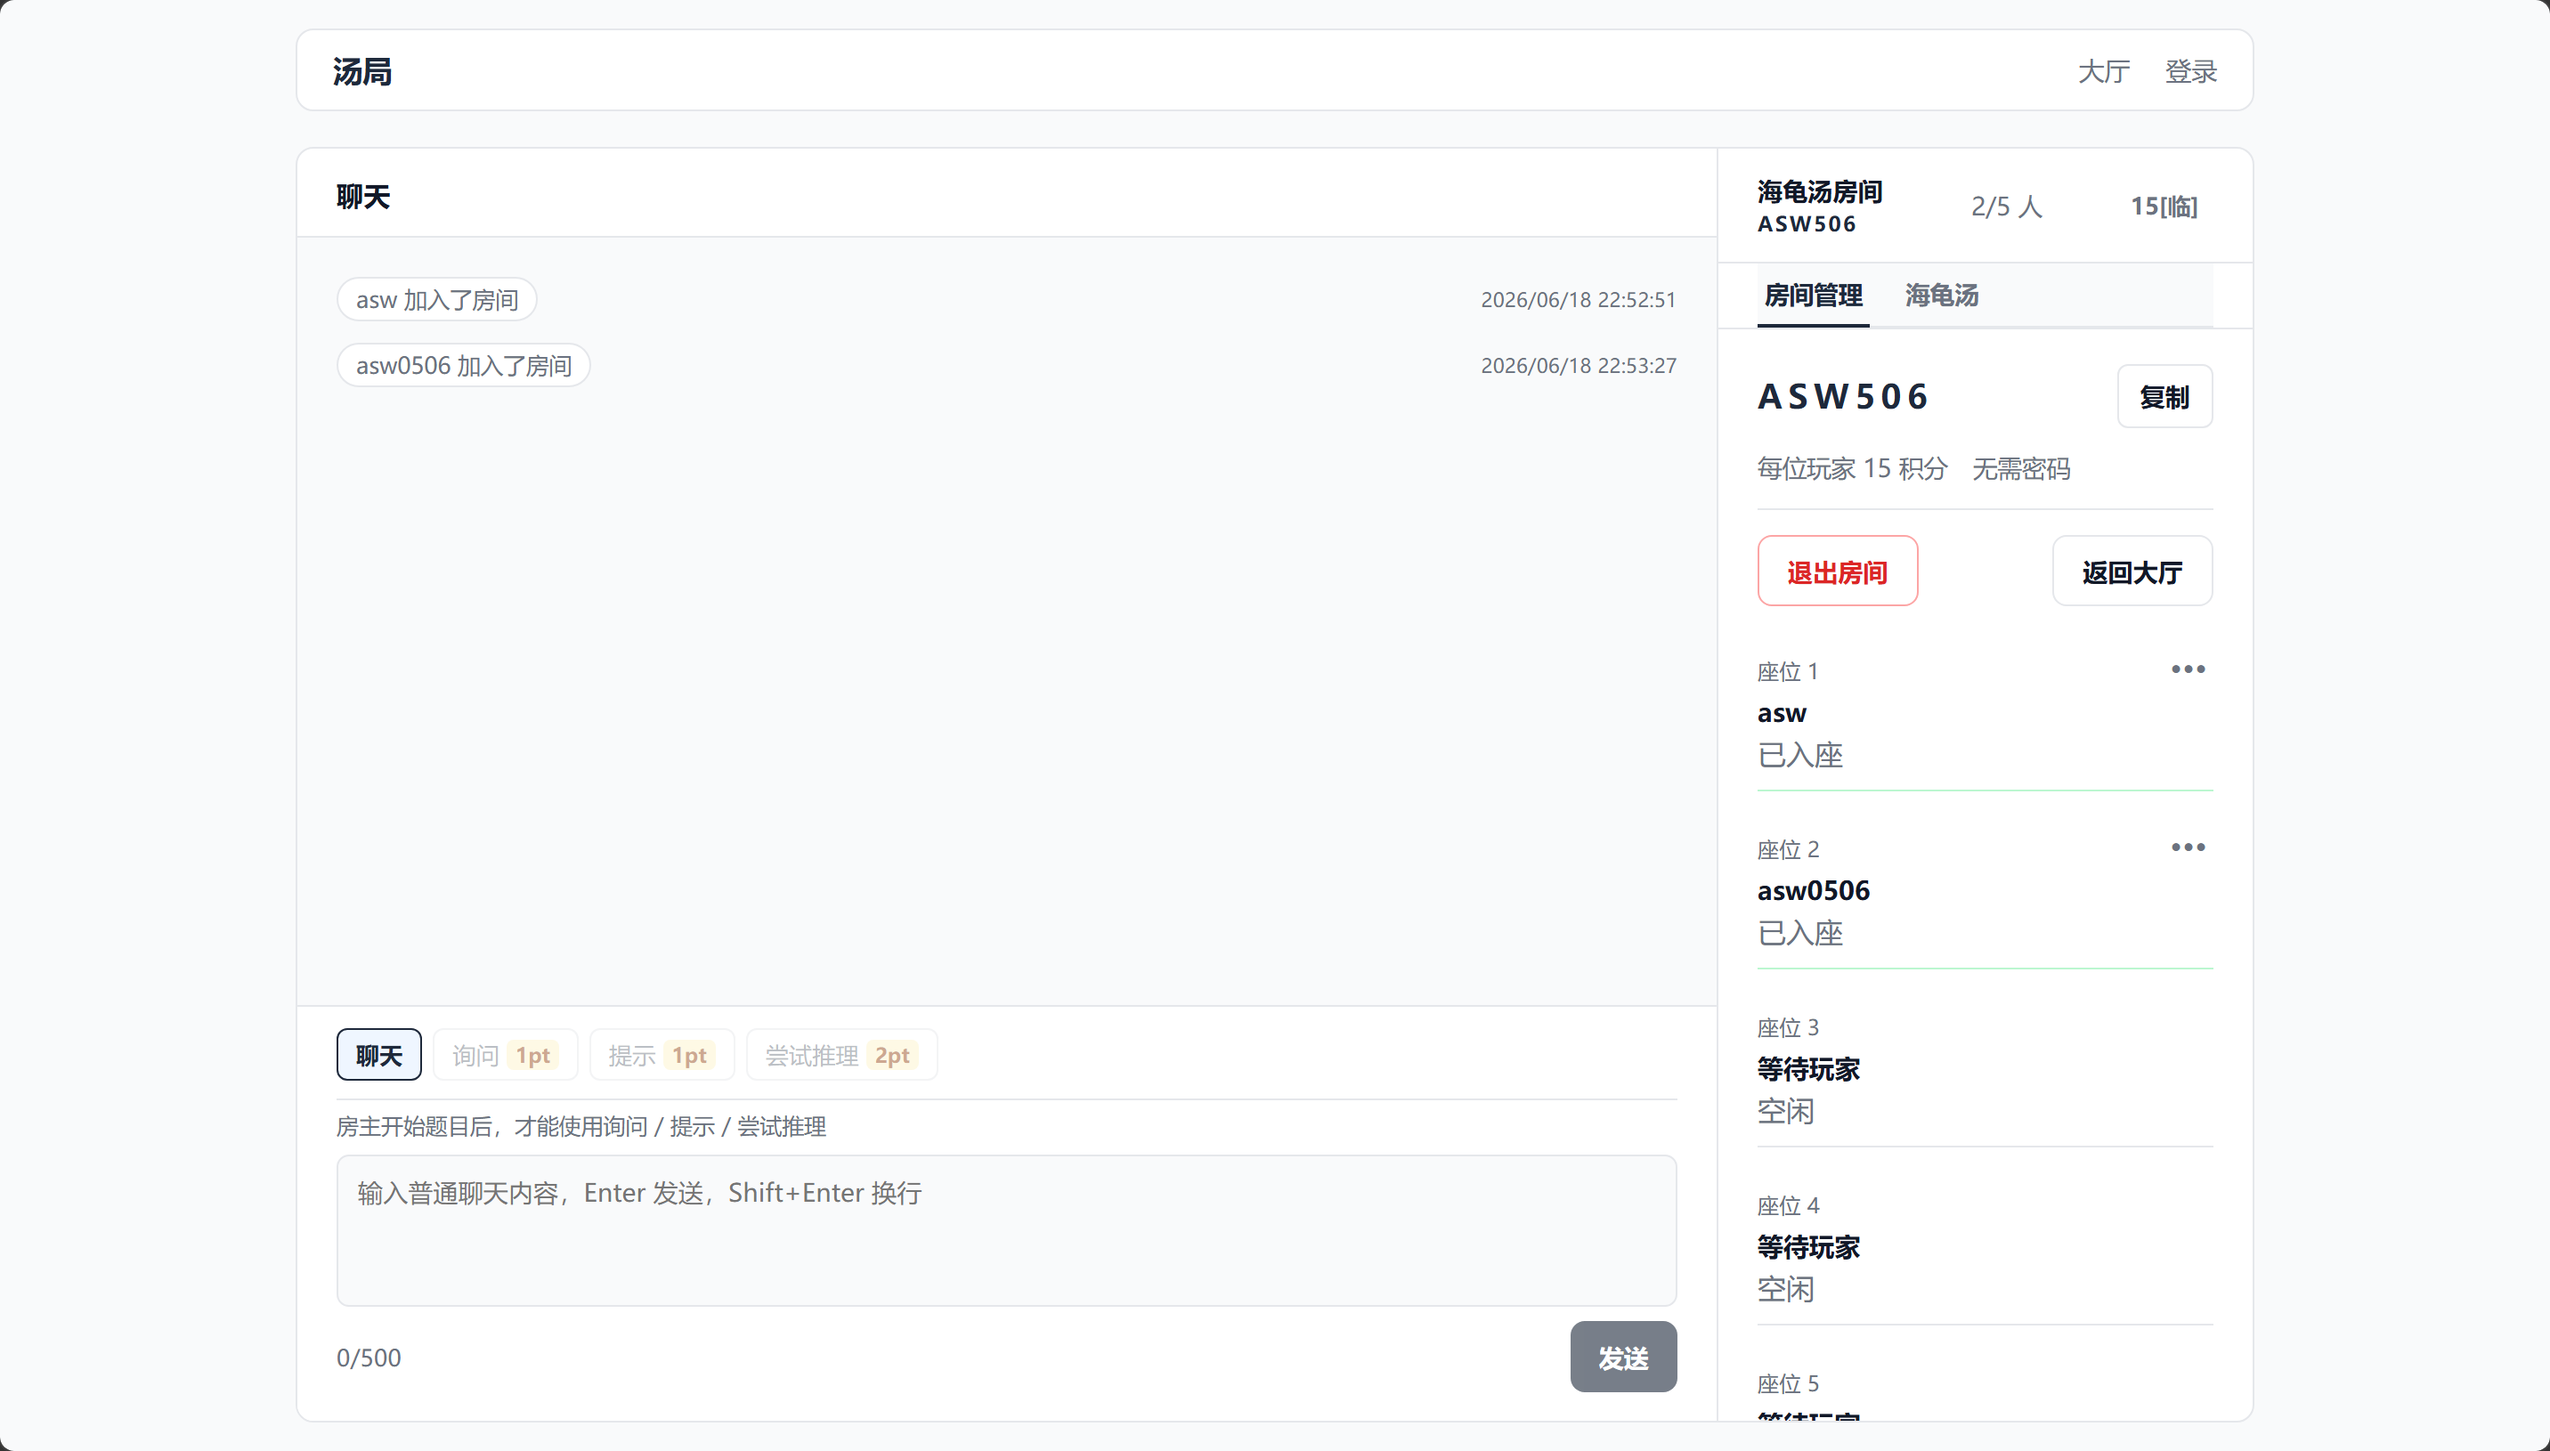
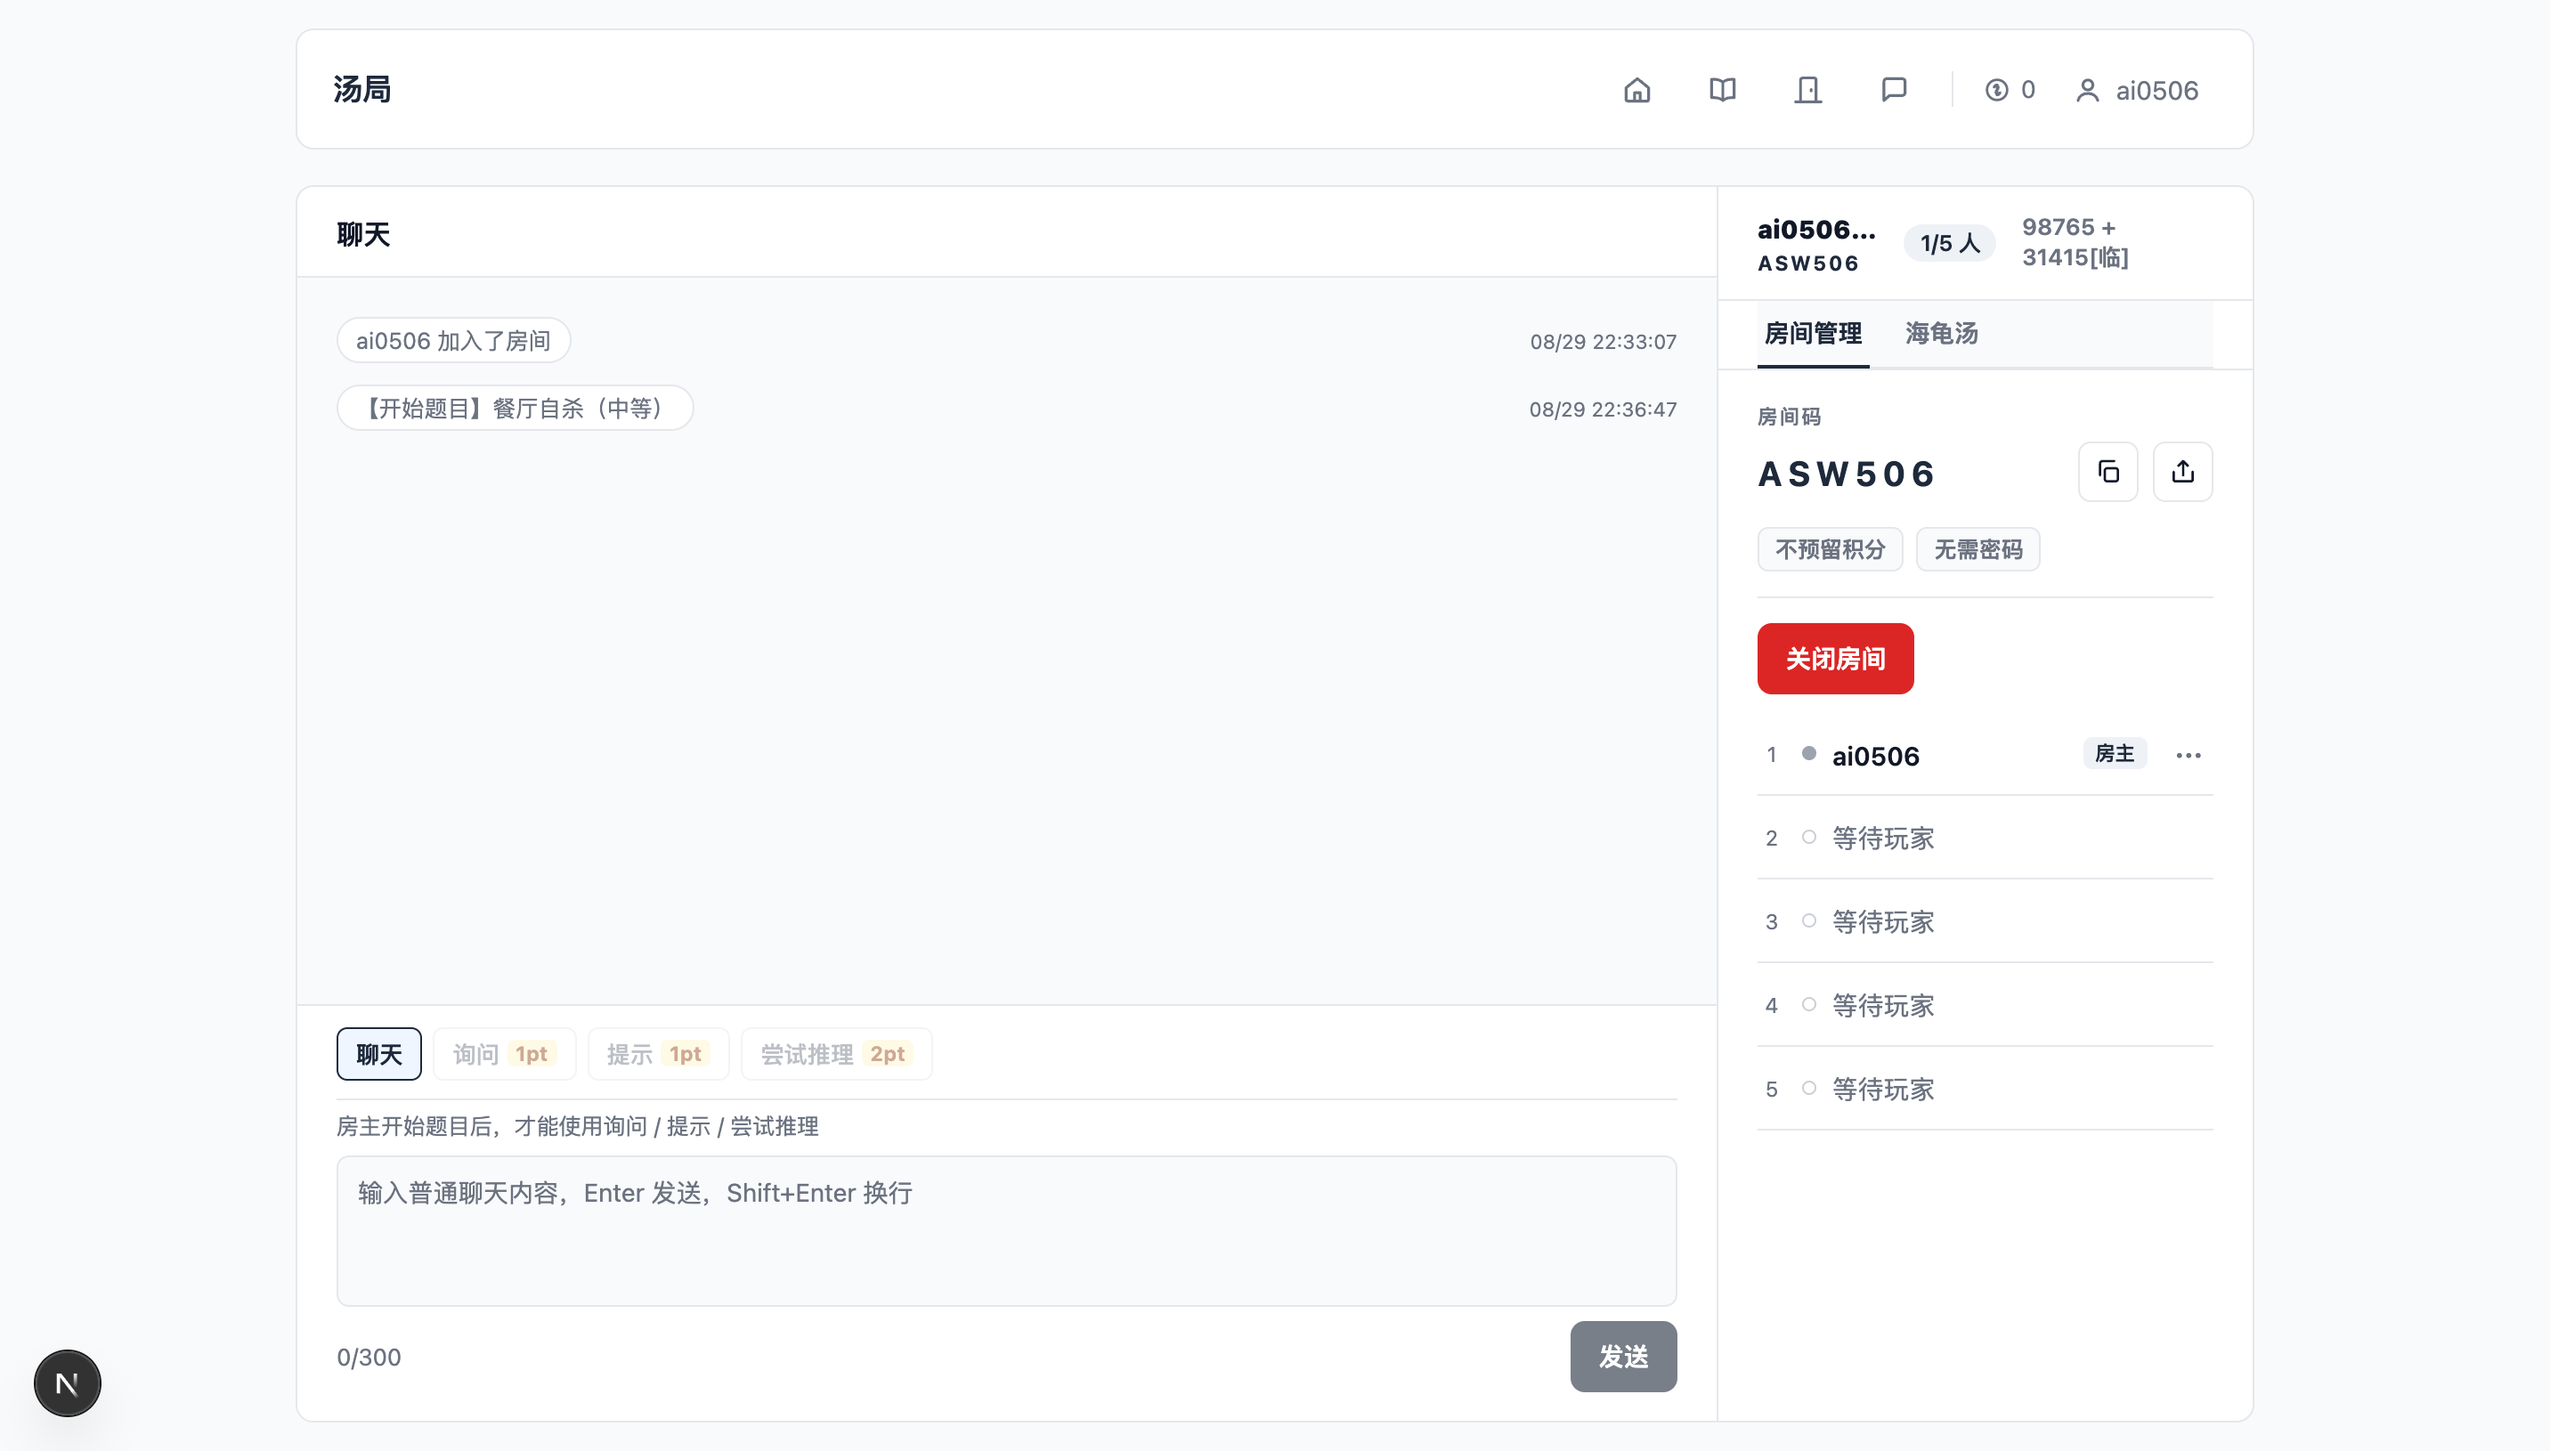
fix: restore guest room entry and refresh tutorial screenshots

diff --git a/src/app/rooms/[code]/page.tsx b/src/app/rooms/[code]/page.tsx
@@ -111,7 +111,7 @@ export default async function RoomPage({
           isRegisteredMember={false}
           initiallyJoined={false}
           requiresPassword={requiresPassword}
-          roomCode={room.code}
+          roomCode={code}
         />
         <Link className="join-back-link" href="/">
           返回

diff --git a/updates.md b/updates.md
@@ -361,3 +361,9 @@
 [CodeX][260919195417] 按用户授权将 archive、prototypes、docs/handoff 与 outputs 移入系统废纸篓的专用可恢复目录；保留 paper 及 data，未读取或移动可能含敏感配置的 paper 文件，并同步文档索引与盘点记录。
 [CodeX][260919195631] 复核项目目录结构：保留既有应用、迁移、测试、文档、资料与框架配置分层，仅移除未被 Git 跟踪、无引用且为空的 src/lib/ai 目录；未移动 paper 或运行文件。
 [CodeX][260919205259] 管理端二次认证改为独立 Resend 八位一次性验证码：仅管理员已登录会话可发起，验证码以 HMAC 摘要和会话绑定写入私有表，10 分钟单次有效、最多 5 次尝试且 1 分钟限发；新增原子消费 RPC，未修改普通用户 Supabase 登录邮件。
+
+[CodeX][260929124714] 重新截取 tutorial 当前界面截图：更新首页、房间、询问、积分、注册、赠送积分与选题画面；演示数据统一使用 ai0506、ASW506 与高积分示例，并确保房间人数徽章单行显示，保留所有既有图片比例与尺寸。
+[CodeX][260929125932] 重新制作 tutorial 的赠送积分截图：临时访客 bsw0506 实际加入房间并打开赠送积分弹窗后截取，展示 [2] bsw0506、77 积分输入及 2/5 人；截图完成后该访客已退出并释放座位，系统加入/退出消息保留在审计聊天中。
+[CodeX][260929130149] 修正 tutorial 首页房间码截图：使用未登录状态重截 1.1mainpageentercode.png，展示加入房间入口与 ASW506，避免演示账号会话导致页面错误显示“你已在房间中”。
+[CodeX][260929130809] 按当前 UI 全量重截 tutorial 引用的 10 张图片：桌面图均为 2864×1630，手机图为 1420×1630；创建房间图同步更新为当前表单结构和演示积分，选题图展示已打开的题目选择列表。
+[CodeX][260929131304] 修复访客加入房间表单缺失房间码：未入座页面改用已标准化的路由 code 传给 GuestRoomPanel，不再读取不含 code 的 get_room_join_info 返回值；核对线上无密码房间与加入 RPC，完成本地表单渲染、typecheck、lint、build 验证。

diff --git a/lessons.md b/lessons.md
@@ -1306,3 +1306,43 @@ Preventability:
 Origin:
 项目 + 日期 + 对应 update
 ```
+
+## 房间公开信息与加入表单的字段契约
+
+Project: OnlineSoup
+Date: 2026-09-29
+
+Area:
+- Frontend / UX
+- Backend / API
+- Testing
+
+Problem Type:
+- 跨层字段契约不一致导致访客无法加入房间
+
+Incident:
+访客在无密码房间输入名字后收到“请检查房间码和密码”。
+
+Initial Assumption:
+页面把公开加入信息强制视为完整的房间对象，因此以为其中包含 code。
+
+Root Cause:
+get_room_join_info 只返回最小公开字段，不包含 code；未入座页面将 joinInfo 转为房间对象并把 room.code 传给加入表单，导致隐藏 code 为空，joinRoom 在 RPC 调用前就拒绝请求。
+
+Resolution:
+未入座加入表单直接使用已经标准化且经 get_room_join_info 验证的路由 code。
+
+Evidence:
+线上无密码房间的 password_hash 为空，join_room_as_guest 仅在哈希存在时抛 wrong_password；本地修复后未登录房间页返回 HTTP 200，隐藏表单字段为对应的六位房间码，typecheck、lint、build 通过。未对线上现有房间做写入式加入测试。
+
+Lesson:
+最小公开投影不能被当作完整实体；类型断言不会补齐运行时缺失的字段。
+
+Rule:
+表单提交关键标识应取自已验证的路由参数或显式 API 字段，跨层投影要核对实际返回字段，并在真实渲染中检查关键隐藏输入。
+
+Preventability:
+可以提前避免
+
+Origin:
+OnlineSoup 2026-09-29 updates.md [CodeX][260929131304]
